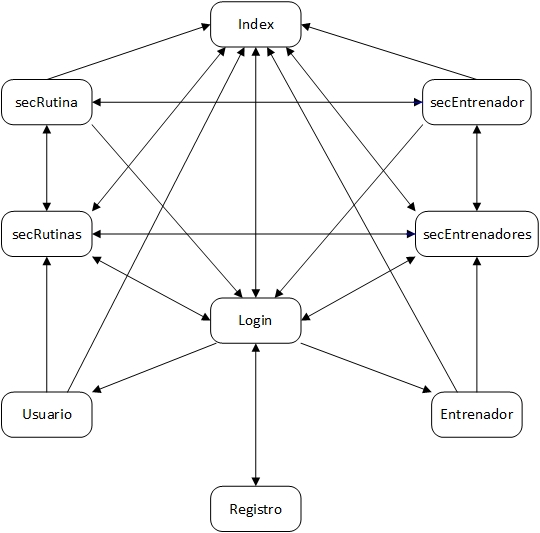
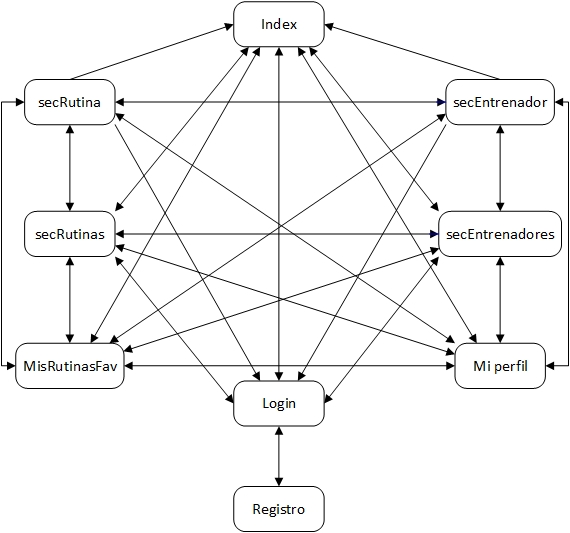
fixed problem with secRutina and update navigation dagram

diff --git a/src/main/resources/templates/secRutina.html b/src/main/resources/templates/secRutina.html
@@ -76,7 +76,7 @@
         </div>
     </nav>
 
-    {{#Rutinas}}
+    {{#rutina}}
 
     <div class="card card-1">
         <div class="autorHeader">
@@ -125,7 +125,7 @@
             <span>{{descripcion}}</span>
         </div>
     </div>
-    {{/Rutinas}}
+    {{/rutina}}
     <hr>
     <h2>Comentarios</h2>
 
@@ -137,9 +137,9 @@
             <label>
                 <textarea name="comentario" class="form-control" rows="5" cols="156"></textarea>
             </label>
-            {{#Rutinas}}
+            {{#Rutina}}
             <input type="hidden" name="rutinaId" value="{{id}}">
-            {{/Rutinas}}
+            {{/Rutina}}
             <input type="hidden" name="_csrf" value="{{token}}">
             <button type="submit" class="btn btn-default ">Enviar</button>
         </form>

diff --git a/src/main/java/velascogculebras/personalizedfitworkouts/Controllers/SecRutinaController.java b/src/main/java/velascogculebras/personalizedfitworkouts/Controllers/SecRutinaController.java
@@ -28,7 +28,7 @@ public class SecRutinaController {
     private String getComentarios(Model model, HttpSession session, @RequestParam long rutinaId) {
         Rutina rutina = rutinaRepository.findOne(rutinaId);
         List<Comentario> comentarios = comentarioRepository.findByRutinaOrderByDateAsc(rutina);
-        model.addAttribute("Rutinas", rutina);
+        model.addAttribute("rutina", rutina);
         model.addAttribute("comentarios", comentarios);
         model.addAttribute("logged", session.getAttribute("user"));
         return "secRutina";
